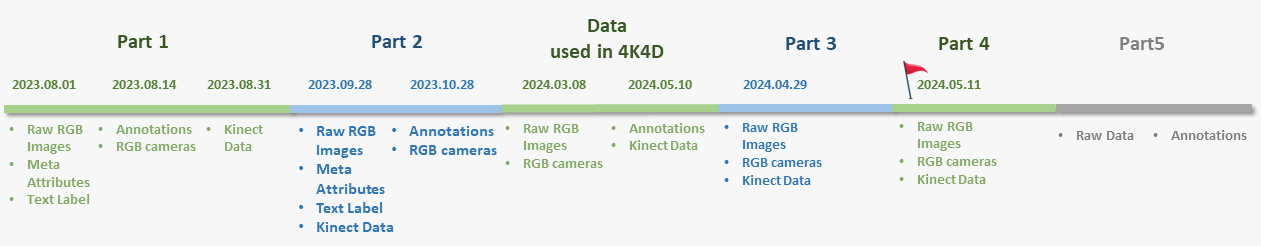
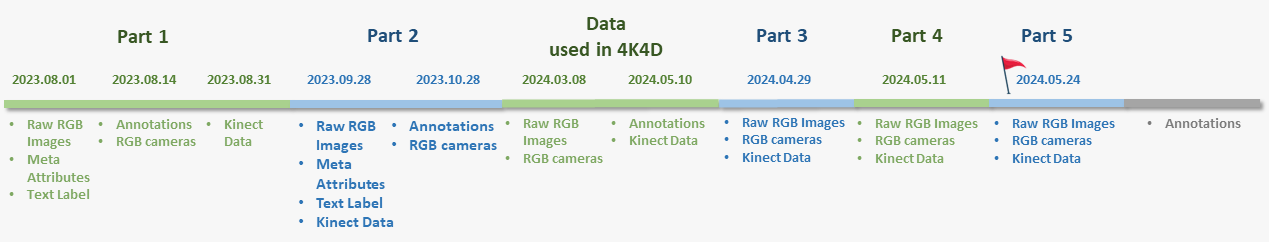
update for part 5

diff --git a/inner-download.html b/inner-download.html
@@ -169,6 +169,7 @@
             <td><b>Part 2</b></td>
             <td><b>Part 3</b></td>
             <td><b>Part 4</b></td>
+            <td><b>Part 5</b></td>
           </tr>
           <tr>
             <th>Actors</th>
@@ -176,6 +177,7 @@
             <td>116</td>
             <td>103</td>
             <td>115</td>
+            <td>145</td>
           </tr>
           <tr>
             <th>Motions Sequences</th>
@@ -183,27 +185,28 @@
             <td>400</td>
             <td>309</td>
             <td>345</td>
+            <td>435</td>
           </tr>
           <tr>
             <th>
               RGB Cameras<br>
               <div class="details">(with known camera matrix and color calibration parameters)</div>
             </th>
-            <td colspan="4">60</td>
+            <td colspan="5">60</td>
             <!-- <td>60</td> -->
           </tr>
           <tr>
             <th>Kinect Depth Cameras<br>
               <div class="details">(with known camera matrix)</div>
             </th>
-            <td colspan="4">8</td>
+            <td colspan="5">8</td>
             <!-- <td>8</td> -->
           </tr>
           <tr>
             <th>Image Dimension<br>
               <div class="details">(height x weight)</div>
             </th>
-            <td colspan="4">
+            <td colspan="5">
                 cameraID in [0, 47]: 2448 x 2048<br>
                 cameraID in [48, 59]: 4096 x 3000<br>
                 depth_cameraID in [0, 7]: 576 x 640
@@ -217,6 +220,7 @@
             <td>4,999,500</td>
             <td>4,171,500</td>
             <td>4,657,500</td>
+            <td>5,872,500</td>
           </tr>
           <tr>
             <th>Total Kinect Depth Frames<br>
@@ -226,6 +230,7 @@
             <td>666,600</td>
             <td>556,220</td>
             <td>621,000</td>
+            <td>783,000</td>
           </tr>
           <tr>
             <th>Total Kinect Mask Frames<br>
@@ -235,6 +240,7 @@
             <td>666,600</td>
             <td>556,220</td>
             <td>621,000</td>
+            <td>783,000</td>
           </tr>
           <tr>
             <th>2D keypoints<br>
@@ -244,11 +250,13 @@
             <td>4,999,500</td>
             <td>/</td>
             <td>/</td>
+            <td>/</td>
           </tr>
           <tr>
             <th>3D keypoints</th>
             <td>8,550</td>
             <td>83,325</td>
+            <td>/</td>
             <td>/</td>
             <td>/</td>
           </tr>
@@ -260,11 +268,13 @@
             <td>4,999,500</td>
             <td>/</td>
             <td>/</td>
+            <td>/</td>
           </tr>
           <tr>
             <th>SMPLx</th>
             <td>8,550</td>
             <td>83,325</td>
+            <td>/</td>
             <td>/</td>
             <td>/</td>
           </tr>
@@ -274,6 +284,7 @@
             <td>~2.2T</td>
             <td>~1.65T</td>
             <td>~1.7T</td>
+            <td>~2.2T</td>
           </tr>
         </table>
       </div>
@@ -346,6 +357,18 @@
               <div> 
                 <img class="listitemimage" src="assets/img/part4_samples/04.png" width="100%">
                 <center><p>Released actors in the part 4-4</p></center>
+              </div>
+              <div> 
+                <img class="listitemimage" src="assets/img/part5_samples/01.png" width="100%">
+                <center><p>Released actors in the part 5-1</p></center>
+              </div>
+              <div> 
+                <img class="listitemimage" src="assets/img/part5_samples/02.png" width="100%">
+                <center><p>Released actors in the part 5-2</p></center>
+              </div>
+              <div> 
+                <img class="listitemimage" src="assets/img/part5_samples/03.png" width="100%">
+                <center><p>Released actors in the part 5-3</p></center>
               </div>
             </div>
           </div>

diff --git a/assets/css/style.css b/assets/css/style.css
@@ -881,7 +881,7 @@ table th:after{
 }
 
 table td{
-  width: 18%;
+  width: 14%;
   text-align: center;
   background-color: #eee;
   padding: 10px 0;
